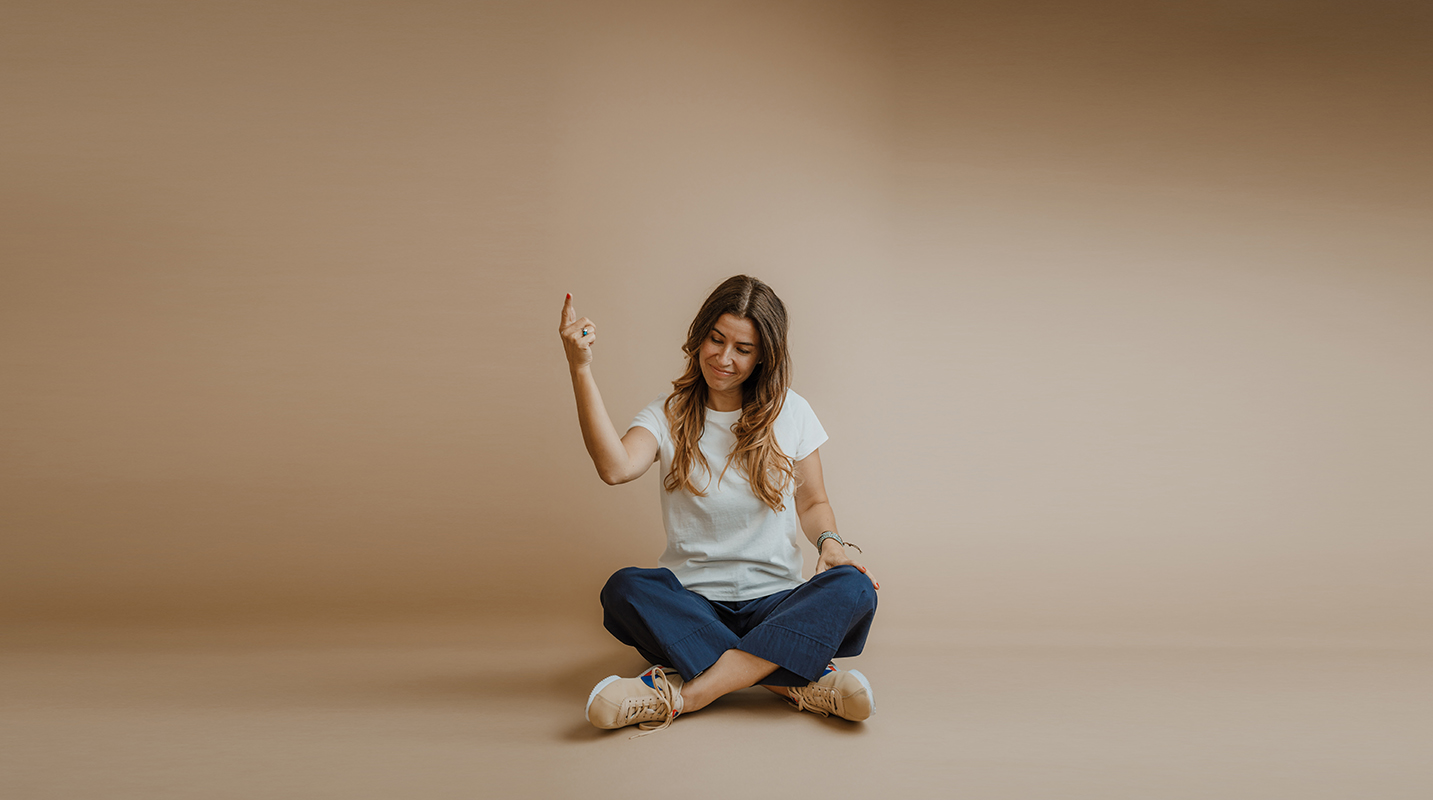
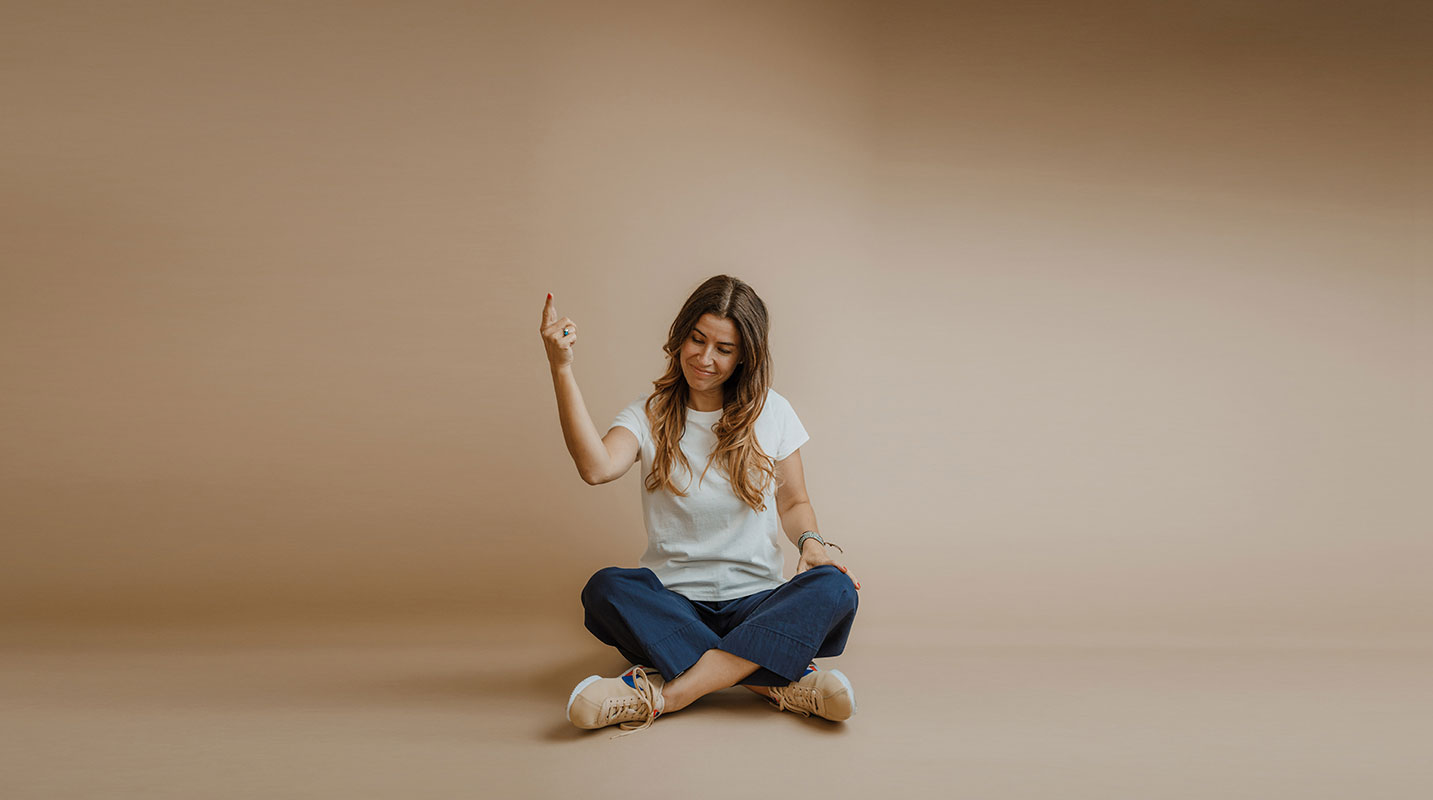
Update hero text and mobile nav

Changed region(s): [[0.3685, 0.3438, 0.6141, 0.9375]]

diff --git a/sass/style.scss b/sass/style.scss
@@ -2135,14 +2135,26 @@ nav {
 		}
 		#bottom-nav-bar {
 			display: none;
-            padding: 2em 0 1em;
-            background-color: $c-white;
-            position: absolute;
-            width: 100%;
-            opacity: 0.95;
-			.nav-bar-items li {
-				margin-bottom: 1em;
-			}
+      padding: 2em 0 1em;
+      background-color: $c-white;
+      position: absolute;
+      width: 100%;
+      height: 100vh;
+      z-index: 2;
+      opacity: 0.95;
+      overflow-x: none;
+      .nav-bar-items {
+        height: calc(100vh - 265px);
+        width: 90%;
+        margin: auto;
+        margin-top: 2em;
+        @include flexbox;
+        @include flex-direction(column);
+        @include justify-content(space-between);
+        li:not(:last-child) {
+          margin-bottom: 1em;
+        }
+      }
 		}
 		@media (min-width: $mq-mediumSmall) {
 			display: none;
@@ -2243,16 +2255,20 @@ footer {
                             color: $c-white;
                         }
                     }
+                    .darken-menu-icon {
+                      &::after {
+                          color: $c-theme1!important;
+                      }
+                  }
                 }
             }
             #bottom-nav-bar {
                 // Custom color to match video hero
-                background-color: #3e4248;
+                background-color: $c-white;
                 padding: 0 0 1em;
                 .nav-bar-items li {
                     color: $c-white;
                     a {
-                        color: $c-white;
                         &:hover, &:focus {
                             color: $c-theme2;
                         }
@@ -2281,7 +2297,7 @@ footer {
         @include align-items(center);
         @include justify-content(center);
         height: 600px;
-        background: $c-theme1 url("../images/heroes/home_hero.jpg") no-repeat top center / cover;
+        background: $c-theme1 url("../images/heroes/home_hero.jpg") no-repeat bottom center / cover;
         position: absolute;
         width: 100%;
         overflow: hidden;
@@ -2290,24 +2306,21 @@ footer {
             color: $c-white;
             margin-top: 5%;
             z-index: 1;
+            span:first-child {
+              display: block;
+            }
+        }
+        @media (min-width: $mq-mediumSmall) {
+          h1 {
+            @include flexbox;
+            @include justify-content(space-between);
+            @include center(90%, 15em);
+            span:first-child {
+              margin-left: 10%;
+            }
+          }
         }
     }
-    .video-wrapper {
-			video {
-				/* Make video to at least 100% wide and tall */
-				min-width: 100%; 
-				min-height: 100%; 
-				/* Setting width & height to auto prevents
-				the browser from stretching or squishing the video */
-				width: auto;
-				height: auto;
-				/* Center the video */
-				position: absolute;
-				top: 50%;
-				left: 50%;
-				transform: translate(-50%,-50%);
-			}
-		}
     .section1 {
         padding: 10% 0 8% 0;
         margin-top: 486px;

diff --git a/css/style.css b/css/style.css
@@ -1152,10 +1152,33 @@ nav .mobile-nav-bar #bottom-nav-bar {
   background-color: #FFFFFF;
   position: absolute;
   width: 100%;
+  height: 100vh;
+  z-index: 2;
   opacity: 0.95;
+  overflow-x: none;
 }
 
-nav .mobile-nav-bar #bottom-nav-bar .nav-bar-items li {
+nav .mobile-nav-bar #bottom-nav-bar .nav-bar-items {
+  height: calc(100vh - 265px);
+  width: 90%;
+  margin: auto;
+  margin-top: 2em;
+  display: -webkit-box;
+  display: -moz-flex;
+  display: -ms-flexbox;
+  display: flex;
+  -webkit-box-direction: normal;
+  -webkit-box-orient: vertical;
+  -moz-flex-direction: column;
+  -ms-flex-direction: column;
+  flex-direction: column;
+  -webkit-box-pack: justify;
+  -ms-flex-pack: justify;
+  -moz-justify-content: space-between;
+  justify-content: space-between;
+}
+
+nav .mobile-nav-bar #bottom-nav-bar .nav-bar-items li:not(:last-child) {
   margin-bottom: 1em;
 }
 
@@ -1309,16 +1332,16 @@ footer .footer-bar .wrapper .footer-bar-icons a:hover, footer .footer-bar .wrapp
   color: #FFFFFF;
 }
 
+#homepage nav .mobile-nav-bar .top-nav-bar .wrapper .darken-menu-icon::after {
+  color: #353a40 !important;
+}
+
 #homepage nav .mobile-nav-bar #bottom-nav-bar {
-  background-color: #3e4248;
+  background-color: #FFFFFF;
   padding: 0 0 1em;
 }
 
 #homepage nav .mobile-nav-bar #bottom-nav-bar .nav-bar-items li {
-  color: #FFFFFF;
-}
-
-#homepage nav .mobile-nav-bar #bottom-nav-bar .nav-bar-items li a {
   color: #FFFFFF;
 }
 
@@ -1352,7 +1375,7 @@ footer .footer-bar .wrapper .footer-bar-icons a:hover, footer .footer-bar .wrapp
   -moz-justify-content: center;
   justify-content: center;
   height: 600px;
-  background: #353a40 url("../images/heroes/home_hero.jpg") no-repeat top center/cover;
+  background: #353a40 url("../images/heroes/home_hero.jpg") no-repeat bottom center/cover;
   position: absolute;
   width: 100%;
   overflow: hidden;
@@ -1365,20 +1388,28 @@ footer .footer-bar .wrapper .footer-bar-icons a:hover, footer .footer-bar .wrapp
   z-index: 1;
 }
 
-#homepage .video-wrapper video {
-  /* Make video to at least 100% wide and tall */
-  min-width: 100%;
-  min-height: 100%;
-  /* Setting width & height to auto prevents
-				the browser from stretching or squishing the video */
-  width: auto;
-  height: auto;
-  /* Center the video */
-  position: absolute;
-  top: 50%;
-  left: 50%;
-  -webkit-transform: translate(-50%, -50%);
-          transform: translate(-50%, -50%);
+#homepage .hero h1 span:first-child {
+  display: block;
+}
+
+@media (min-width: 48em) {
+  #homepage .hero h1 {
+    display: -webkit-box;
+    display: -moz-flex;
+    display: -ms-flexbox;
+    display: flex;
+    -webkit-box-pack: justify;
+    -ms-flex-pack: justify;
+    -moz-justify-content: space-between;
+    justify-content: space-between;
+    width: 90%;
+    max-width: 15em;
+    margin-left: auto;
+    margin-right: auto;
+  }
+  #homepage .hero h1 span:first-child {
+    margin-left: 10%;
+  }
 }
 
 #homepage .section1 {

diff --git a/js/script.js b/js/script.js
@@ -1,55 +1,25 @@
 // Menu Collapse
 function menuCollapse() {
-    var x = document.getElementById("bottom-nav-bar");
-    if (x.style.display === "block") {
-      x.style.display = "none";
+    var body = document.body;
+    var bottomNav = document.getElementById("bottom-nav-bar");
+    var topNav = document.getElementById("top-nav-bar");
+    var navLogo = document.getElementById("nav-logo");
+    var navIcon = document.getElementById("menu");
+    if (bottomNav.style.display === "block") {
+      bottomNav.style.display = "none";
+      topNav.style.backgroundColor = "transparent";
+      body.style.overflow = "visible";
+      navIcon.classList.remove('darken-menu-icon');
+      navLogo.src = "images/logo_white.png"
     } else {
-      x.style.display = "block";
+      bottomNav.style.display = "block";
+      topNav.style.backgroundColor = "white";
+      topNav.style.opacity = ".95";
+      navIcon.classList.add('darken-menu-icon');
+      body.style.overflow = "hidden";
+      navLogo.src = "images/logo_dark.png"
     }
   }
-
-
-
-
-// Interior Portfolio Page Modal
-  // function openModal() {
-  //   getInfo();
-  //   document.getElementById("myModal").style.display = "block";
-  // }
-  
-  // function closeModal() {
-  //   document.getElementById("myModal").style.display = "none";
-  // }
-  
-  // var slideIndex = 1;
-  // showSlides(slideIndex);
-  
-  // function plusSlides(n) {
-  //   showSlides(slideIndex += n);
-  // }
-  
-  // function currentSlide(n) {
-  //   showSlides(slideIndex = n);
-  // }
-  
-  // function showSlides(n) {
-  //   var i;
-  //   var slides = document.getElementsByClassName("mySlides");
-  //   var dots = document.getElementsByClassName("demo");
-  //   var captionText = document.getElementById("caption");
-  //   if (n > slides.length) {slideIndex = 1}
-  //   if (n < 1) {slideIndex = slides.length}
-  //   for (i = 0; i < slides.length; i++) {
-  //       slides[i].style.display = "none";
-  //   }
-  //   for (i = 0; i < dots.length; i++) {
-  //       dots[i].className = dots[i].className.replace(" active", "");
-  //   }
-  //   slides[slideIndex-1].style.display = "block";
-  //   dots[slideIndex-1].className += " active";
-  //   captionText.innerHTML = dots[slideIndex-1].alt;
-  // }
-
 
   // ------ Lightbox
   class Lightbox {

diff --git a/index.html b/index.html
@@ -12,9 +12,9 @@
 <body id="homepage">
 	<nav>
 		<div class="mobile-nav-bar">
-			<div class="top-nav-bar">
+			<div class="top-nav-bar" id="top-nav-bar">
 				<div class="wrapper">
-					<a href="index.html" class="logo"><img src="images/logo_white.png" alt="Boomhitch"></a>
+					<a href="index.html" class="logo"><img src="images/logo_white.png" alt="Boomhitch" id="nav-logo"></a>
 					<a href="javascript:void(0);" id="menu" alt="menu" onclick="menuCollapse()"></a>
 				</div>
 			</div>
@@ -42,13 +42,10 @@
 		</div>
     </nav>
 
-	<div class="video-wrapper hero">
-		<!-- <video autoplay muted loop id="myVideo">
-			<source src="./images/heroes/home_hero." type="video/mp4">
-			Your browser does not support HTML5 video.
-		</video> -->
-		<h1>Be Seen<br>
-            Become Known
+	<div class="hero">
+		<h1>
+			<span>Be<br>Seen</span>
+			<span> Become<br>Known</span>
         </h1>
 	</div>
 

diff --git a/about.html b/about.html
@@ -12,9 +12,9 @@
 <body id="aboutPage">
 	<nav>
 		<div class="mobile-nav-bar">
-			<div class="top-nav-bar">
+			<div class="top-nav-bar" id="top-nav-bar">
 				<div class="wrapper">
-					<a href="index.html" class="logo"><img src="images/logo_dark.png" alt="Boomhitch"></a>
+					<a href="index.html" class="logo" ><img src="images/logo_dark.png" alt="Boomhitch"></a>
 					<a href="javascript:void(0);" id="menu" alt="menu" onclick="menuCollapse()"></a>
 				</div>
 			</div>

diff --git a/portfolio-interior.html b/portfolio-interior.html
@@ -12,7 +12,7 @@
 <body id="portfolioInteriorPage">
 	<nav>
 		<div class="mobile-nav-bar">
-			<div class="top-nav-bar">
+			<div class="top-nav-bar" id="top-nav-bar">
 				<div class="wrapper">
 					<a href="index.html" class="logo"><img src="images/logo_dark.png" alt="Boomhitch"></a>
 					<a href="javascript:void(0);" id="menu" alt="menu" onclick="menuCollapse()"></a>

diff --git a/portfolio.html b/portfolio.html
@@ -12,7 +12,7 @@
 <body id="portfolioPage">
 	<nav>
 		<div class="mobile-nav-bar">
-			<div class="top-nav-bar">
+			<div class="top-nav-bar" id="top-nav-bar">
 				<div class="wrapper">
 					<a href="index.html" class="logo"><img src="images/logo_dark.png" alt="Boomhitch"></a>
 					<a href="javascript:void(0);" id="menu" alt="menu" onclick="menuCollapse()"></a>

diff --git a/services.html b/services.html
@@ -12,7 +12,7 @@
 <body id="servicesPage">
 	<nav>
 		<div class="mobile-nav-bar">
-			<div class="top-nav-bar">
+			<div class="top-nav-bar" id="top-nav-bar">
 				<div class="wrapper">
 					<a href="index.html" class="logo"><img src="images/logo_dark.png" alt="Boomhitch"></a>
 					<a href="javascript:void(0);" id="menu" alt="menu" onclick="menuCollapse()"></a>

diff --git a/contact.html b/contact.html
@@ -12,7 +12,7 @@
 <body id="contactPage">
 	<nav>
 		<div class="mobile-nav-bar">
-			<div class="top-nav-bar">
+			<div class="top-nav-bar" id="top-nav-bar">
 				<div class="wrapper">
 					<a href="index.html" class="logo"><img src="images/logo_dark.png" alt="Boomhitch"></a>
 					<a href="javascript:void(0);" id="menu" alt="menu" onclick="menuCollapse()"></a>
